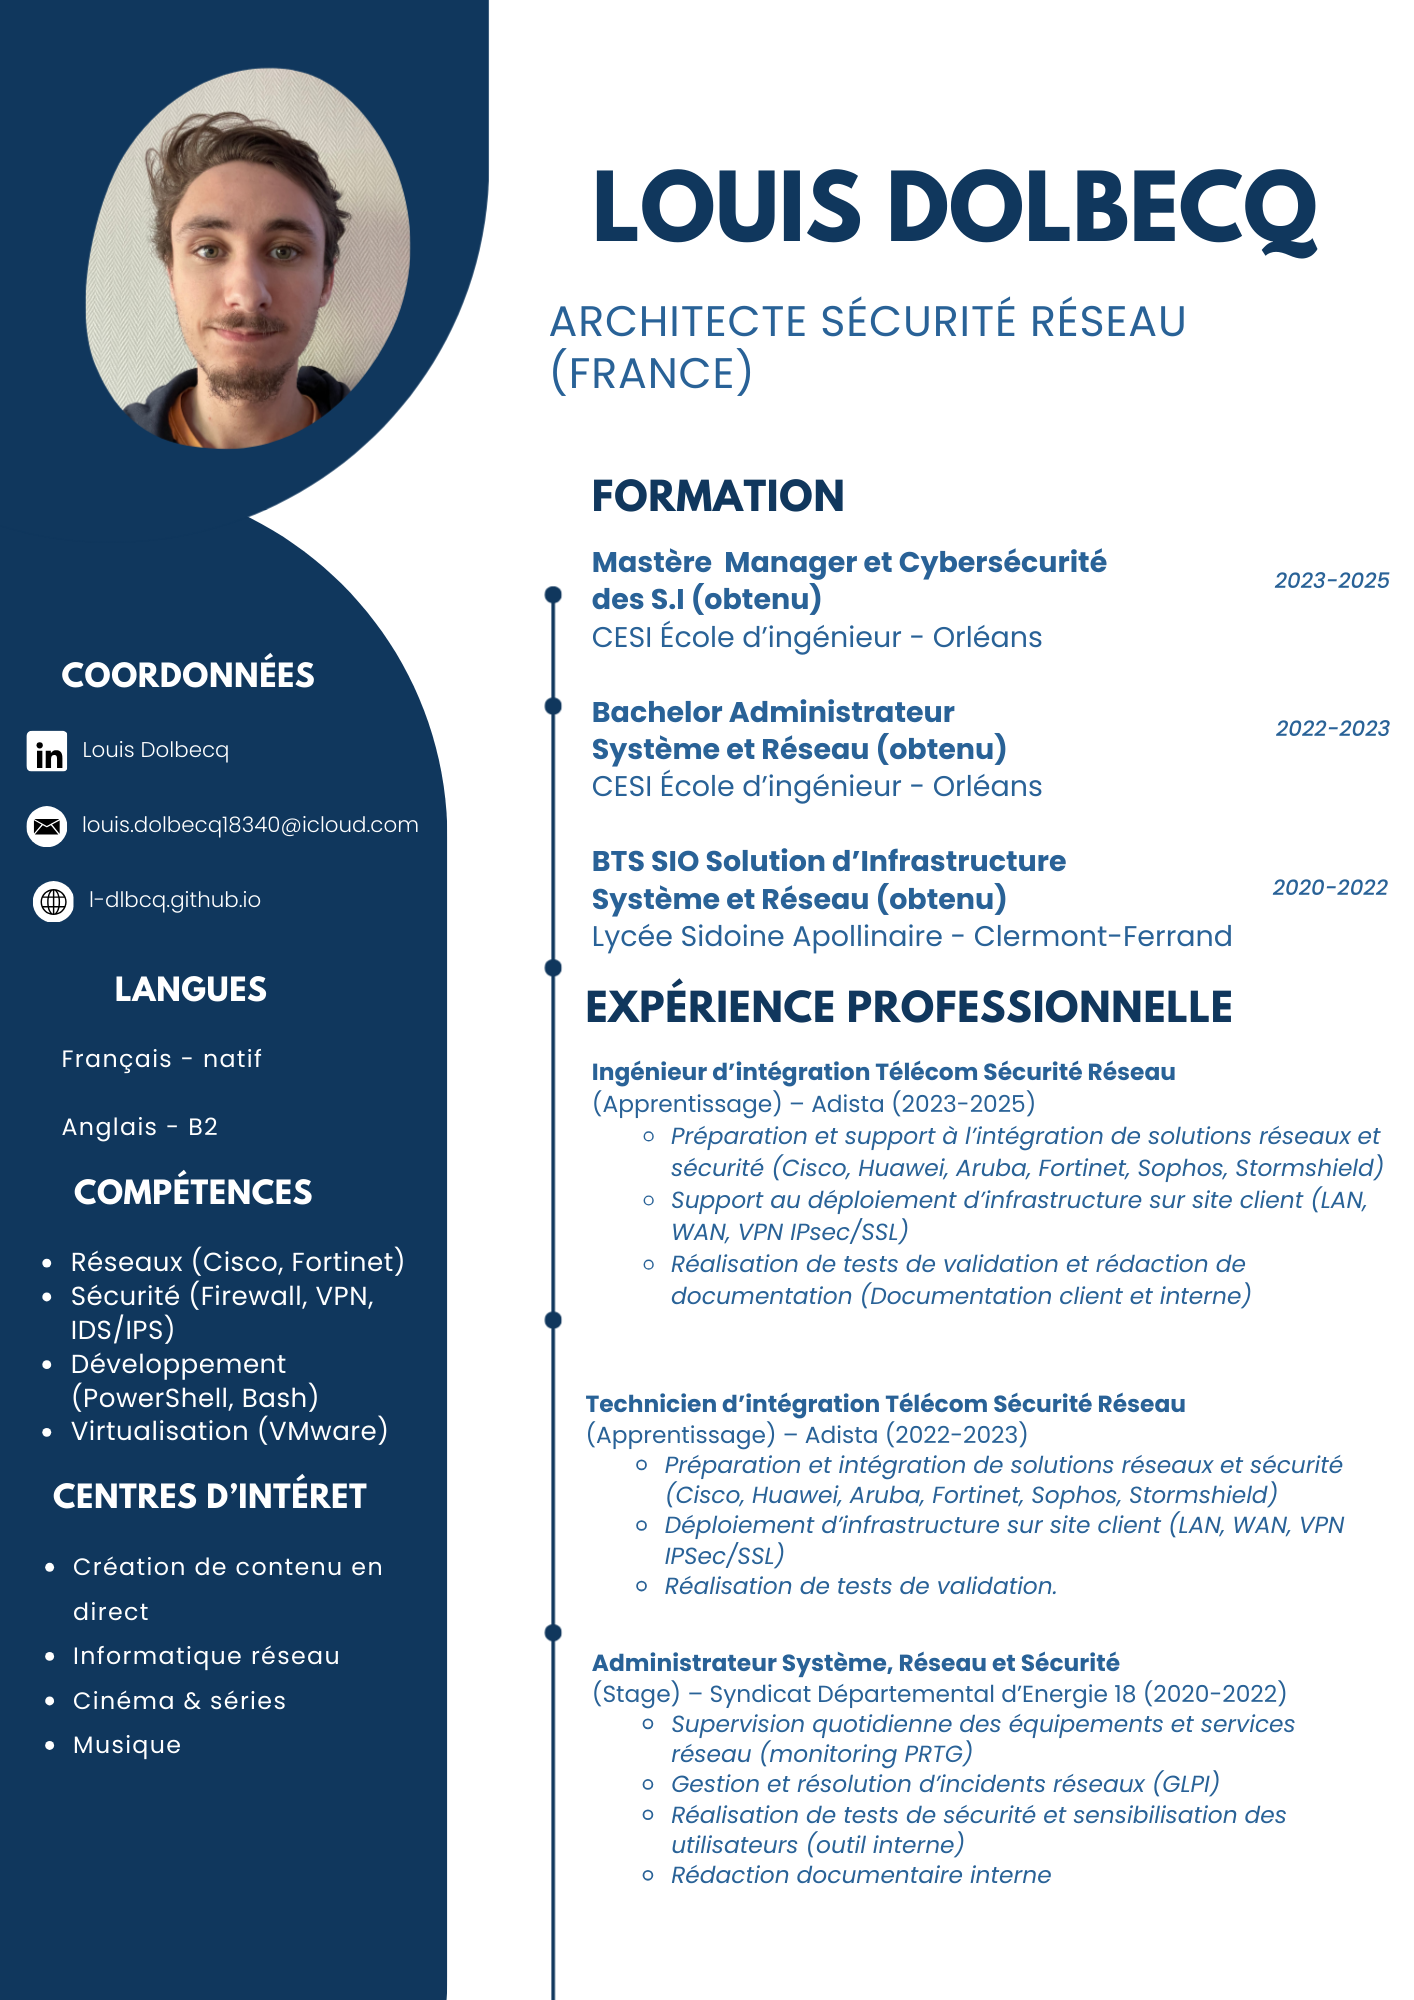
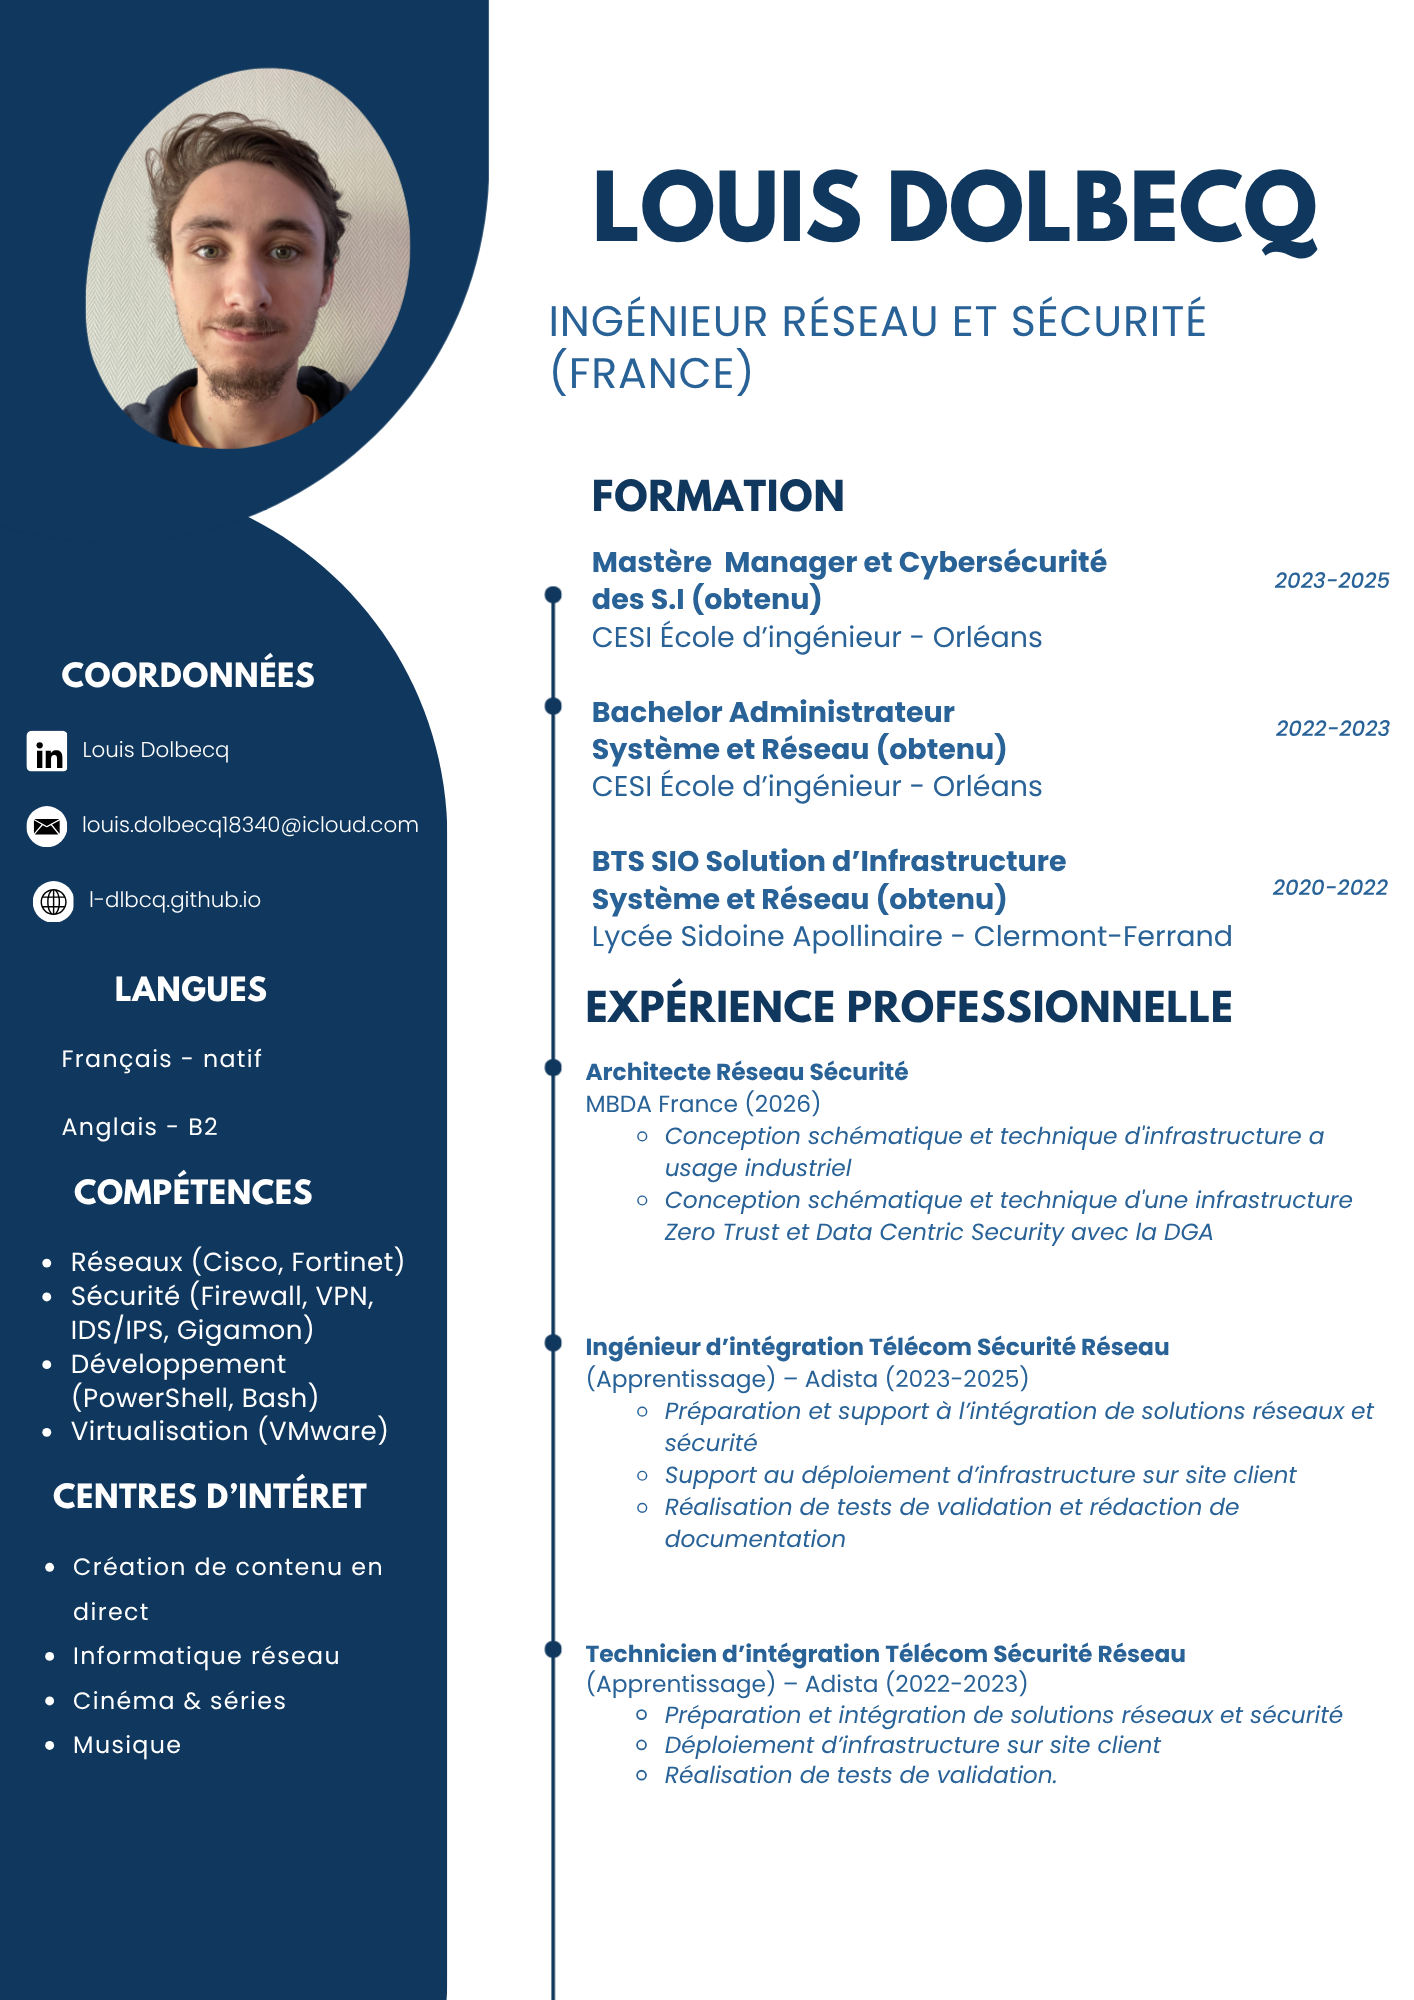
Website full updating

Changed region(s): [[0.3734, 0.527, 0.9646, 0.961], [0.3734, 0.155, 0.8402, 0.186], [0.1245, 0.651, 0.2178, 0.682]]

diff --git a/profile.html b/profile.html
@@ -30,7 +30,7 @@
       <h2 class="text-3xl font-bold mb-4">Profil</h2>
       <p class="text-gray-300 mb-4">Découvrez mon profil !</p>
       <p class="text-gray-400 mb-4">
-        En bref, je suis diplômé d'un Mastère Cybersécurité et Management des SI et j'occupe un poste d'Architecte Sécurité Réseau. Je suis aussi un passionné
+        En bref, je suis diplômé d'un Mastère Cybersécurité et Management des SI et j'occupe un poste d'Ingénieur Réseau et Sécurité. Je suis aussi un passionné
         d’informatique depuis mon plus jeune âge, ainsi que de jeux vidéo et de musique.
       </p>
       <p class="text-gray-400">
@@ -60,8 +60,8 @@
     <!-- Badge compact (marge réduite) -->
     <div class="bg-slate-800/50 backdrop-blur-sm rounded-2xl p-6 mb-6 border border-emerald-500/30"> <!-- p-8→p-6, mb-8→mb-6 -->
       <p class="text-xl text-gray-200 leading-tight"> <!-- leading-tight anti-espacement -->
-        🚀 <strong>Architecte Sécurité Réseau</strong> certifié CESI (Mastère Cybersécurité des SI)<br>
-        Conception & sécurisation d'infrastructures critiques à <strong>Bourges</strong>
+        🚀 <strong>Ingénieur Réseau et Sécurité</strong> certifié CESI (Mastère Cybersécurité des SI)<br>
+        Conception & sécurisation d'infrastructures critiques à <strong>Montpellier</strong>
       </p>
     </div>
 
@@ -78,14 +78,11 @@
       </ul>
 
       <p class="text-gray-400 mb-4">
-        📍 Basé à <a href="https://www.ville-bourges.fr/" target="_blank" class="text-emerald-400 hover:underline font-semibold">Bourges</a><br>
-        Mobilité <strong>national</strong> pour projets cybersécurité
-      </p>
+        📍 Basé à <a href="https://www.montpellier.fr/" target="_blank" class="text-emerald-400 hover:underline font-semibold">Montpellier</a> avec une mobilité <strong>national</strong></p>
 
       <!-- Bouton LinkedIn -->
 <div class="bg-gradient-to-r from-emerald-600 to-cyan-600 hover:from-emerald-700 hover:to-cyan-700 text-white p-6 rounded-2xl text-center shadow-2xl hover:shadow-emerald-500/50 transition-all duration-300 group">
-  <p class="text-xl font-bold mb-3">👉 Recruteurs Sécurité Réseau</p>
-  <p class="text-lg mb-4 opacity-95">Un projet avec du BGP/OSPF/NVR/NAT ?</p>
+  <p class="text-xl font-bold mb-3">Vous êtes un recruteur, un DSI ? Ou simplement à la recherche d'une expertise en Réseau et Sécurité ?</p>
   <a href="/contact" target="_blank" 
      class="bg-blue-400 text-gray-900 font-semibold px-8 py-4 rounded-lg shadow-md hover:bg-blue-500 transition-all duration-300 text-lg inline-block mx-auto block max-w-max">
     Contactez moi 💬

diff --git a/cursus.html b/cursus.html
@@ -79,10 +79,19 @@
       <h2 class="text-3xl font-bold mb-4">Expériences professionnelles</h2>
       <div class="grid md:grid-cols-2 gap-6">
 
+        <!-- MBDA 6 mois-->
+        <div class="bg-gray-800 p-6 rounded-xl shadow hover:shadow-xl transition">
+          <a href="https://www.mbda-systems.com/" target="_blank">
+            <img src="https://upload.wikimedia.org/wikipedia/commons/thumb/3/35/MBDA-Logo.svg/960px-MBDA-Logo.svg.png" alt="Logo Adista" class="max-h-12 max-w-[150px] object-contain">
+          </a>
+          <h3 class="text-xl font-semibold mb-2">MBDA</h3>
+          <p class="text-gray-400">24/01/2026 → 24/08/2026<br>Manager : Yannick Fauchère<br>Tâches : Conception Infrastructure ZT/DCS avec DGA, Étude solutions GIGAMON, Plannification réseau et sécurité migration CyberVault</p>
+        </div>
+
         <!-- Adista 2e et 3e année-->
         <div class="bg-gray-800 p-6 rounded-xl shadow hover:shadow-xl transition">
           <a href="https://www.adista.fr/" target="_blank">
-            <img src="https://i.ibb.co/Xr5vTm10/adista-logo-removebg-preview.png" alt="Logo Adista" class="max-h-12 max-w-[150px] object-contain">
+            <img src="https://can-agency.org/wp-content/uploads/2024/02/adista_500x250.png" alt="Logo Adista" class="max-h-12 max-w-[150px] object-contain">
           </a>
           <h3 class="text-xl font-semibold mb-2">Adista – Alternance 2ème & 3ème année</h3>
           <p class="text-gray-400">08/09/2023 → 12/09/2025<br>Tuteur : Florent Barlet<br>Tâches : Déploiement MPLS SDIS36, VSR Firewall Fortinet FortiGate, Déploiement FortiGate Michel Simond Développement</p>
@@ -91,7 +100,7 @@
         <!-- Adista 1ere année -->
         <div class="bg-gray-800 p-6 rounded-xl shadow hover:shadow-xl transition">
           <a href="https://www.adista.fr/" target="_blank">
-            <img src="https://i.ibb.co/Xr5vTm10/adista-logo-removebg-preview.png" alt="Logo Adista" class="max-h-12 max-w-[150px] object-contain">
+            <img src="https://www.to13.com/wp-content/uploads/2021/01/logo-adista-horizontal-couleur-768x325.png" alt="Logo Adista" class="max-h-12 max-w-[150px] object-contain">
           </a>
           <h3 class="text-xl font-semibold mb-2">Adista – Alternance 1ère année</h3>
           <p class="text-gray-400">03/10/2022 → 08/09/2023<br>Tuteur : Florent Barlet<br>Tâches : Déploiement MPLS SDIS36, VSR Firewall Fortinet FortiGate, Déploiement AGC ALLIANCE CENTRE</p>
